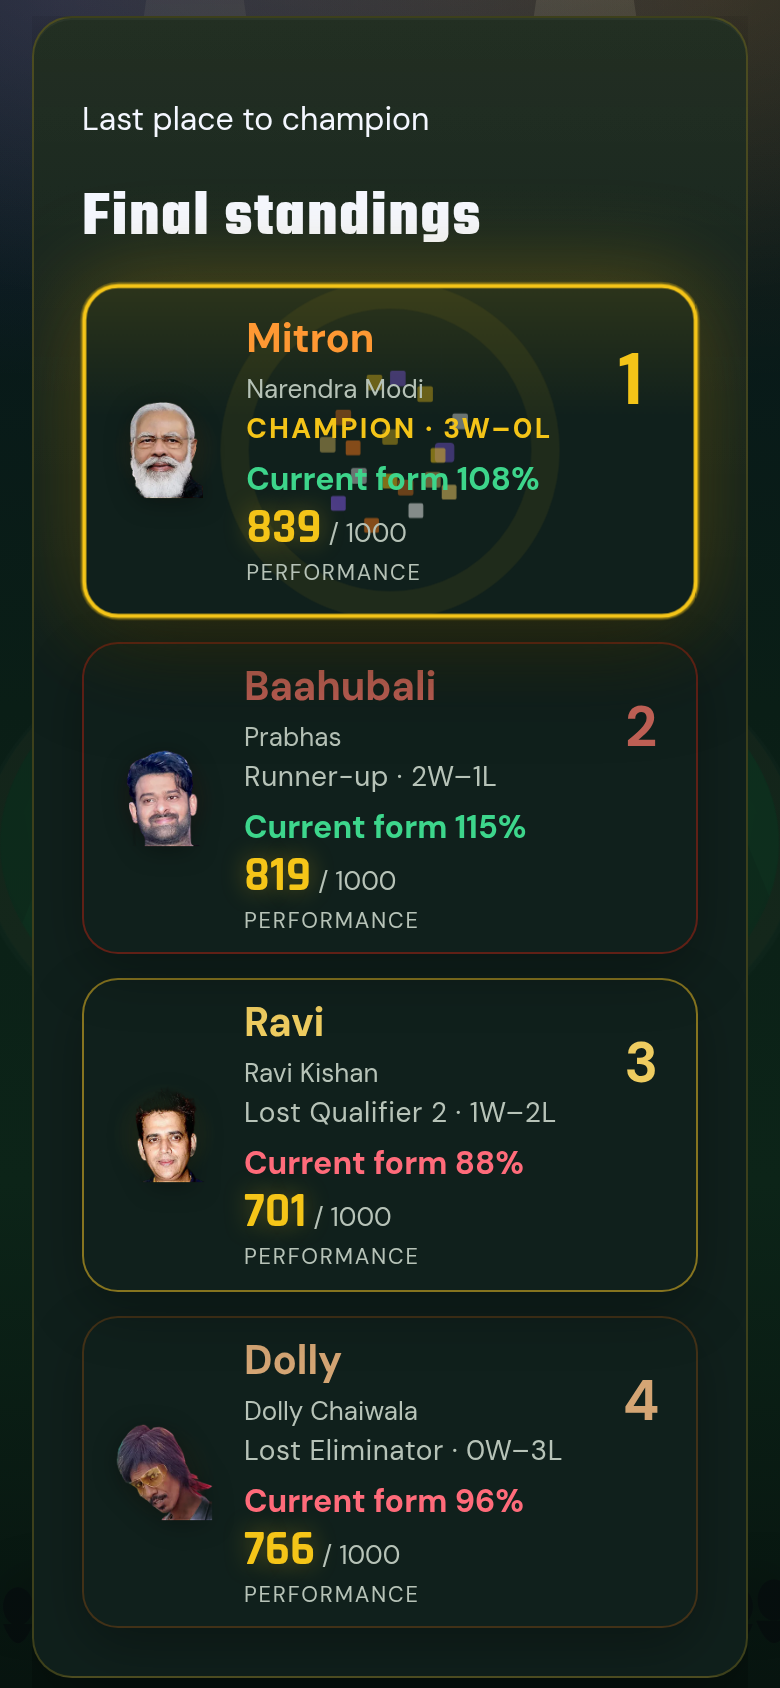
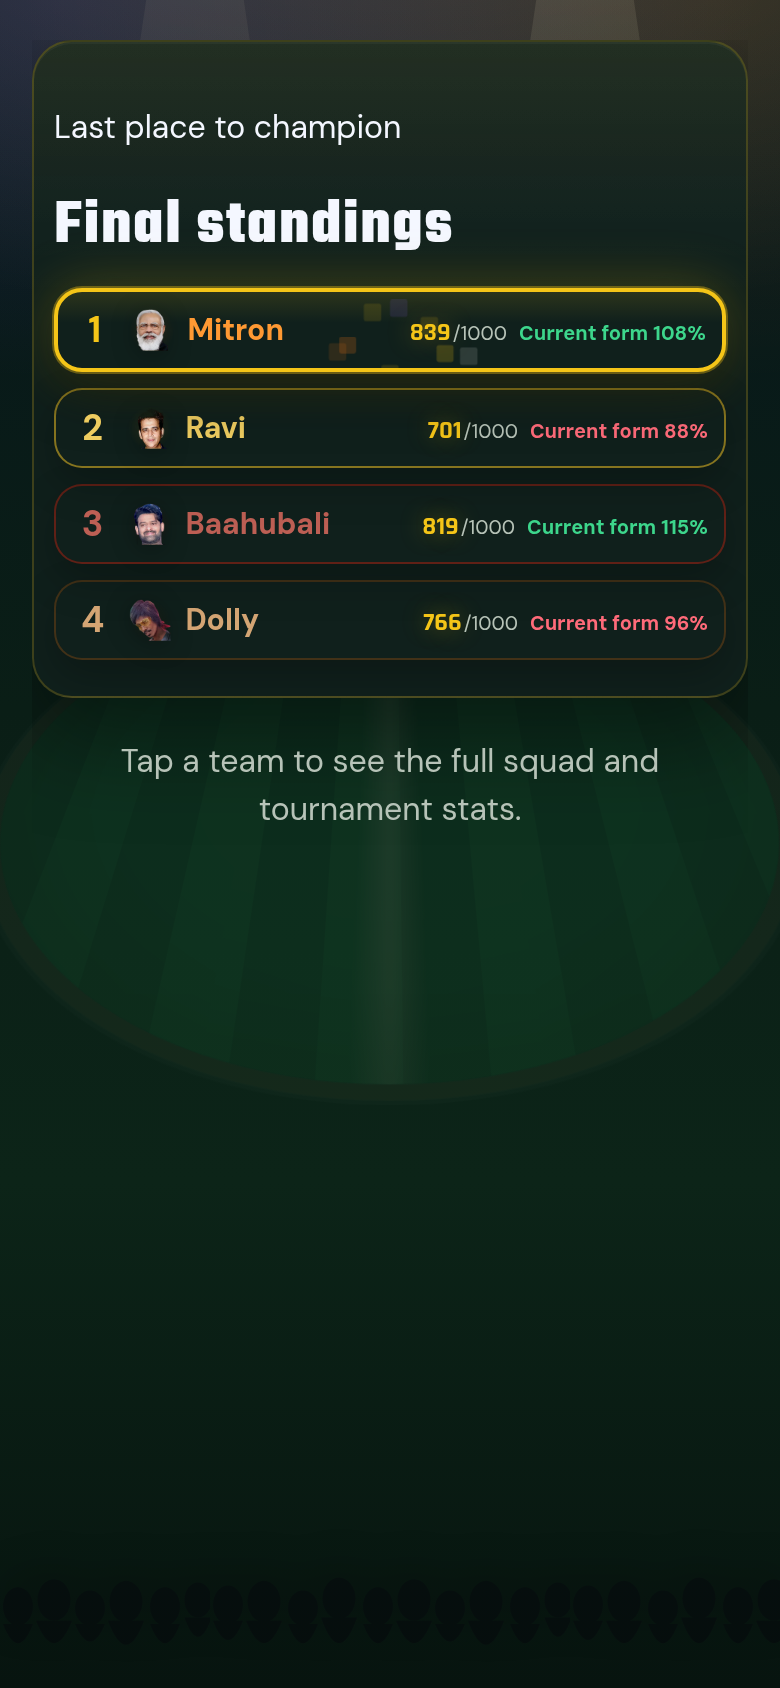
Limit each standings row to position, team name, score, and Current form.
Finish tags and W–L now live on the team sheet header instead of the standings list. The champion row stays highlighted, and rows stay on one compact line at 360px.

diff --git a/public/styles.css b/public/styles.css
@@ -1655,40 +1655,63 @@ th { color: var(--muted); font-size: 12px; letter-spacing: 0.06em; text-transfor
 .results-reveal-head { display: flex; justify-content: space-between; align-items: flex-end; gap: 12px; flex-wrap: wrap; }
 .results-reveal-head h2 { margin: 0; }
 .results-reveal-stage { flex: 1; display: flex; flex-direction: column; justify-content: flex-end; }
-.results-reveal-list { display: flex; flex-direction: column-reverse; gap: 12px; }
+.results-reveal-list { display: flex; flex-direction: column-reverse; gap: 8px; }
 .result-card {
   display: grid;
-  grid-template-columns: auto auto 1fr auto;
-  gap: 12px 14px;
+  grid-template-columns: auto auto minmax(6ch, 1fr) auto;
+  gap: 8px 10px;
   align-items: center;
   background: var(--card);
   border: 1px solid color-mix(in srgb, var(--c, var(--gold)) 55%, transparent);
-  border-radius: 18px;
-  padding: 14px 16px;
-  box-shadow: 0 10px 28px rgba(0,0,0,0.28);
+  border-radius: 14px;
+  padding: 8px 12px;
+  box-shadow: 0 8px 20px rgba(0,0,0,0.24);
+  min-width: 0;
 }
 .result-card.is-fresh { animation: sold-pop 480ms cubic-bezier(0.18, 1.4, 0.32, 1) both; }
 .result-card.is-champion {
   border-width: 2px;
   border-color: var(--gold);
-  padding: 22px 18px;
-  box-shadow: 0 0 0 1px rgba(245,197,24,0.35), 0 18px 50px rgba(0,0,0,0.45), 0 0 48px rgba(245,197,24,0.35);
+  box-shadow: 0 0 0 1px rgba(245,197,24,0.35), 0 10px 28px rgba(0,0,0,0.4), 0 0 28px rgba(245,197,24,0.28);
   animation: champ-reveal 900ms cubic-bezier(0.18, 1.4, 0.32, 1) both;
 }
 .result-pos {
-  font-size: 28px; font-weight: 800; width: 40px; text-align: center;
-  color: var(--ct, var(--c, var(--gold))); font-variant-numeric: tabular-nums;
+  display: inline-flex;
+  align-items: center;
+  justify-content: center;
+  gap: 2px;
+  font-size: 20px;
+  font-weight: 800;
+  min-width: 1.4em;
+  text-align: center;
+  color: var(--ct, var(--c, var(--gold)));
+  font-variant-numeric: tabular-nums;
+  line-height: 1;
 }
-.result-card.is-champion .result-pos { font-size: 36px; color: var(--gold); }
-.result-card-body h3 { margin: 0 0 4px; font-size: 20px; color: var(--ct, var(--c, var(--text))); }
-.result-finish { margin: 0; color: var(--muted); font-size: 14px; letter-spacing: 0.02em; }
-.result-card.is-champion .result-finish { color: var(--gold); font-weight: 700; text-transform: uppercase; letter-spacing: 0.08em; }
-.result-card-stats { text-align: right; }
-.result-form { margin: 0 0 4px; }
-.result-score { margin: 0; line-height: 1; }
-.result-score strong { font-size: 28px; color: var(--gold); font-variant-numeric: tabular-nums; }
-.result-score span { color: var(--muted); font-size: 13px; }
-.result-score-label { margin: 4px 0 0; font-size: 11px; letter-spacing: 0.08em; text-transform: uppercase; }
+.result-card.is-champion .result-pos { color: var(--gold); }
+.result-name {
+  margin: 0;
+  font-size: 16px;
+  font-weight: 700;
+  color: var(--ct, var(--c, var(--text)));
+  white-space: nowrap;
+  overflow: hidden;
+  text-overflow: ellipsis;
+  min-width: 0;
+}
+.result-meta {
+  display: flex;
+  align-items: baseline;
+  justify-content: flex-end;
+  gap: 8px;
+  flex-wrap: nowrap;
+  flex-shrink: 0;
+}
+.result-form { margin: 0; font-size: 12px; white-space: nowrap; line-height: 1; }
+.result-score { margin: 0; line-height: 1; white-space: nowrap; }
+.result-score strong { font-size: 16px; color: var(--gold); font-variant-numeric: tabular-nums; }
+.result-score span { color: var(--muted); font-size: 11px; margin-left: 1px; }
+.result-card .team-mark-wrap { width: 28px; height: 28px; flex: 0 0 28px; }
 @keyframes champ-reveal {
   0% { transform: scale(0.86); opacity: 0; filter: brightness(1.8); }
   60% { transform: scale(1.04); opacity: 1; }
@@ -1698,35 +1721,31 @@ th { color: var(--muted); font-size: 12px; letter-spacing: 0.06em; text-transfor
 .results, #main { overflow-x: hidden; max-width: 100%; box-sizing: border-box; }
 .results .table-wrap, .results .team-reports { max-width: 100%; overflow-x: auto; }
 @media (max-width: 700px) {
-  .results-reveal { min-height: 0; max-width: 100%; gap: 10px; }
+  .results-reveal { min-height: 0; max-width: 100%; gap: 8px; overflow-x: hidden; }
   .results-reveal-head h2 { font-size: 32px; }
-  .result-card { max-width: 100%; box-sizing: border-box; padding: 8px 12px; gap: 6px 12px; }
-  .result-card.is-champion { padding: 12px; }
-  .result-score strong { font-size: 24px; }
-  .result-pos { min-width: 1.1em; z-index: 1; }
   .results-reveal-stage { flex: none; justify-content: flex-start; }
-  .result-card { grid-template-columns: auto 1fr auto; }
-  .result-card .team-mark-wrap { grid-row: 1 / 3; }
-  .result-card-body { grid-column: 2; }
-  .result-pos { grid-column: 3; grid-row: 1; width: auto; justify-self: end; }
-  .results-reveal { overflow-x: hidden; }
-  .result-card-stats {
-    grid-column: 2;
-    text-align: left;
-    display: flex;
-    flex-direction: column;
-    align-items: flex-start;
-    gap: 2px;
+  .result-card {
+    max-width: 100%;
+    box-sizing: border-box;
+    padding: 7px 8px;
+    gap: 6px 6px;
+    grid-template-columns: auto auto minmax(0, 1fr) auto;
   }
-  .result-form { margin: 0; }
-  .result-score { justify-self: start; }
-  .result-score-label { margin: 0; }
+  .result-pos { min-width: 1.15em; z-index: 1; font-size: 18px; }
+  .result-name { font-size: 15px; }
+  .result-meta { gap: 6px; }
+  .results-reveal.panel,
+  .panel.results-reveal { padding: 16px 10px 18px; }
+  .result-form { font-size: 10px; }
+  .result-form .form-pct { font-weight: 700; letter-spacing: 0; }
+  .result-score strong { font-size: 13px; }
+  .result-score span { font-size: 10px; }
+  .result-card .team-mark-wrap { width: 24px; height: 24px; flex-basis: 24px; }
 }
 
 
 .result-card { cursor: pointer; }
 .result-card:focus-visible { outline: 2px solid var(--gold); outline-offset: 2px; }
-.result-owner { margin: 0 0 2px; color: var(--muted); font-size: 13px; }
 .results-hint { text-align: center; margin: 4px 0 12px; }
 
 /* Results team sheet */

diff --git a/public/app.js b/public/app.js
@@ -1821,23 +1821,15 @@ function resultStandingsCard(pos, fresh) {
   const form = formPctOf(pos) != null ? formLabel(pos) : "";
   const score = pos.squadScore != null ? String(pos.squadScore) : "—";
   const cid = characterIdOf(pos);
-  const mark = teamMark({ id: cid, characterId: cid, color: pos.color, color2: pos.color2, text: pos.text }, "lg", pos.name);
-  const record = resultRecord(pos);
-  const finish = pos.finish || pos.title || "";
-  const owner = pos.coOwner && pos.coOwner !== pos.name ? pos.coOwner : "";
+  const mark = teamMark({ id: cid, characterId: cid, color: pos.color, color2: pos.color2, text: pos.text }, "sm", pos.name);
   return `<article class="result-card ${champ ? "is-champion" : ""} ${fresh ? "is-fresh" : ""}" style="--c:${esc(pos.color || "")};--ct:${esc(pos.text || pos.color || "")};--c2:${esc(pos.color2 || "")}" role="button" tabindex="0" data-team-name="${esc(pos.name || "")}" aria-label="View ${esc(pos.name || "team")} squad">
     ${champ ? `<div class="champ-burst" aria-hidden="true"></div>` : ""}
     <span class="result-pos">${esc(pos.position)}</span>
     ${mark}
-    <div class="result-card-body">
-      <h3>${esc(pos.name || pos.short || "")}</h3>
-      ${owner ? `<p class="result-owner">${esc(owner)}</p>` : ""}
-      <p class="result-finish">${esc(finish)}${record ? ` · ${esc(record)}` : ""}</p>
-    </div>
-    <div class="result-card-stats">
+    <h3 class="result-name">${esc(pos.name || pos.short || "")}</h3>
+    <div class="result-meta">
+      <p class="result-score"><strong>${esc(score)}</strong><span>/1000</span></p>
       ${form ? `<p class="result-form">${form}</p>` : ""}
-      <p class="result-score"><strong>${esc(score)}</strong><span> / 1000</span></p>
-      <p class="lede result-score-label">Performance</p>
     </div>
   </article>`;
 }

diff --git a/scripts/shot-results-simple.js b/scripts/shot-results-simple.js
@@ -68,18 +68,25 @@ async function waitFor(page, fn, label, timeoutMs = 15000, ...args) {
 
 async function shot(page, name, viewport, opts = {}) {
   await page.setViewport({ ...viewport, deviceScaleFactor: 2 });
+  await sleep(200);
+  if (opts.hideTopbar) {
+    await page.addStyleTag({ content: ".topbar { display: none !important; }" });
+  }
   await page.evaluate((sel) => {
     if (sel) {
       const el = document.querySelector(sel);
       if (el) {
-        const top = el.getBoundingClientRect().top + window.scrollY;
+        el.scrollIntoView({ block: "start", inline: "nearest" });
+        const top = el.getBoundingClientRect().top + (window.scrollY || document.documentElement.scrollTop || 0);
         window.scrollTo(0, Math.max(0, top - 8));
+        document.documentElement.scrollTop = Math.max(0, top - 8);
+        document.body.scrollTop = Math.max(0, top - 8);
         return;
       }
     }
     window.scrollTo(0, 0);
   }, opts.scroll || null);
-  await sleep(350);
+  await sleep(400);
   const file = path.join(OUT, name);
   await page.screenshot({ path: file, fullPage: false, timeout: 20000 });
   console.log("wrote", file);
@@ -150,7 +157,8 @@ async function main() {
       if (!debug || debug.cards < 4) throw err;
     }
     await sleep(400);
-    await shot(host, "results-simple.png", PHONE, { scroll: ".results-reveal" });
+    await shot(host, "results-simple.png", PHONE, { scroll: ".results-reveal", hideTopbar: true });
+    await shot(host, "results-simple-360.png", PHONE_NARROW, { scroll: ".results-reveal", hideTopbar: true });
 
     const champName = await host.evaluate(() => {
       const card = document.querySelector(".result-card.is-champion");

diff --git a/README.md b/README.md
@@ -24,7 +24,7 @@ This is a local MVP. Nothing is deployed, and no accounts are required.
   - **Power waits and quick chat:** during Dolly's chai break, Salman/Taylor/Kim/Ranveer target picks, or Rakhi's swayamvar choice, everyone can still send emotes and that player's own character lines as quick chat (the same lines as in the emote picker). The server only accepts a line that belongs to the sender's character. Dolly's pause is unlimited and only she can end it with **Chai khatam** (the host cannot resume; if she disconnects, the auction auto-resumes after 30 seconds). Rakhi's rivals have 15 seconds to pay her 3 points or refuse; a timeout counts as a refuse and they sit out the **next** lot only.
   - **Auction list:** when the host starts, the server builds the list of players that will come up. For each role in the room's mode it randomly picks **numTeams × role slots**, plus a small buffer of **max(1, ceil(numTeams / 2))** extra players of that role, from the full player database (roles with no slots, such as all-rounders in Rapid or Bullet, are omitted). Those picks are combined and shuffled once with a Fisher–Yates shuffle (crypto-quality randomness in play; tests can inject a seed or RNG). The auction then goes through that list **in that order**. Players no incomplete team can use — every remaining team is already full in that role — are skipped automatically, not put on the block. The buffer covers the default-bid overflow case: a team that is not yet complete may be forced to keep a player whose role quota is already full, which can leave another team short of that role. If the list still runs out while a team needs a role, a further small batch of that role is appended from whoever is left in the database. The auction ends when every remaining team has a complete squad; auto-fill at 1 point is the final fallback. The auction header shows **Lot X of N** for the current position in that list.
 - **Captain & boosters:** once the auction ends, teams have 45 seconds to pick a captain and (if they have leftover points) buy funny boosters from the shop. One of each booster per team, priced 15–40 points. Unspent points are kept but unused. If time runs out, the server auto-picks the highest-rated captain. The captain gets a +5% rating boost. Bought boosters have modest effects on the simulation and show up in results with any moments they triggered.
-- **Tournament:** only BAT, WK and AR players bat; only AR and BOWL players bowl. Strength is averaged over a full unit for the mode (Classical 7 batting-capable / 6 bowling-capable; Rapid 3/2; Bullet 2/1), so missing players count as zero and lopsided squads suffer. Innings length scales with the mode: Classical is a 20-over game (up to 10 wickets, bowlers capped at 4 overs, expected score around 155); Rapid is 10 overs (up to 4 wickets, 5-over cap, expected score around 78); Bullet is 6 overs (up to 2 wickets, the single bowler can bowl the lot, expected score around 47). Any squad member can be captain; if time runs out the server still auto-picks the highest-rated player. Form is rolled once when a squad is completed, as the average of two rolls in 85–115%, then shifted by up to **+5 / −5** points according to completion order (first to finish slightly hotter, last slightly colder; still random, with upsets possible). Auto-fill and last-team fill only affect that form rank — they do not apply any other penalty to the simulation or the scores. Then a round-robin league and playoffs (IPL-style if there are 4+ teams, or a top-2 final if fewer) are simulated internally to decide positions. Results are revealed in a **server-synced** standings crawl from last place up to the champion, one team at a time about every 2.8 seconds (or **Skip**). Each card shows finish (for example Out in league, Lost Eliminator, Runner-up, Champion), W–L, **Current form**, and a performance score out of 1000. The score is the existing squad strength, `round(clamp(S, 0, 110) / 110 * 1000)`, where S is the squad's simulated match strength (batting and bowling averages with empty-slot penalties, captain bump, form, and standing boosters; dew-factor and the bus nerf are left out). Typical complete Classical sides land roughly 600–850. Match-by-match fixtures and the playoff bracket are not shown; tapping a team opens a sheet with the full squad and each player's simulated tournament batting and bowling. Target: under 2 minutes.
+- **Tournament:** only BAT, WK and AR players bat; only AR and BOWL players bowl. Strength is averaged over a full unit for the mode (Classical 7 batting-capable / 6 bowling-capable; Rapid 3/2; Bullet 2/1), so missing players count as zero and lopsided squads suffer. Innings length scales with the mode: Classical is a 20-over game (up to 10 wickets, bowlers capped at 4 overs, expected score around 155); Rapid is 10 overs (up to 4 wickets, 5-over cap, expected score around 78); Bullet is 6 overs (up to 2 wickets, the single bowler can bowl the lot, expected score around 47). Any squad member can be captain; if time runs out the server still auto-picks the highest-rated player. Form is rolled once when a squad is completed, as the average of two rolls in 85–115%, then shifted by up to **+5 / −5** points according to completion order (first to finish slightly hotter, last slightly colder; still random, with upsets possible). Auto-fill and last-team fill only affect that form rank — they do not apply any other penalty to the simulation or the scores. Then a round-robin league and playoffs (IPL-style if there are 4+ teams, or a top-2 final if fewer) are simulated internally to decide positions. Results are revealed in a **server-synced** standings crawl from last place up to the champion, one team at a time about every 2.8 seconds (or **Skip**). Each standings row shows position, team name (with a small co-owner portrait), the performance score out of 1000, and **Current form**. The champion row is highlighted. Finish tags and W–L sit on the team sheet, which opens when a row is tapped. The score is the existing squad strength, `round(clamp(S, 0, 110) / 110 * 1000)`, where S is the squad's simulated match strength (batting and bowling averages with empty-slot penalties, captain bump, form, and standing boosters; dew-factor and the bus nerf are left out). Typical complete Classical sides land roughly 600–850. Match-by-match fixtures and the playoff bracket are not shown; tapping a team opens a sheet with the full squad and each player's simulated tournament batting and bowling. Target: under 2 minutes.
 
 Player ratings in `data/players.json` are **informal estimates** for game balance, not official stats. Swap that file to use your own pool.
 
